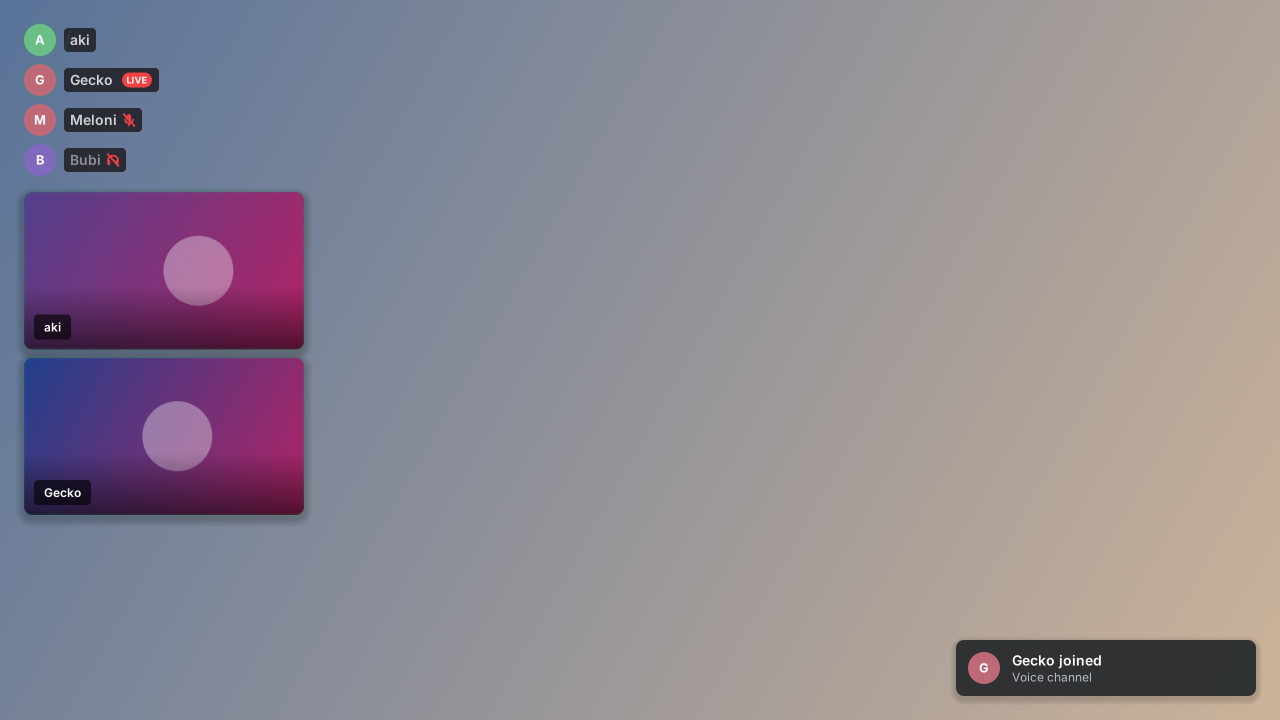
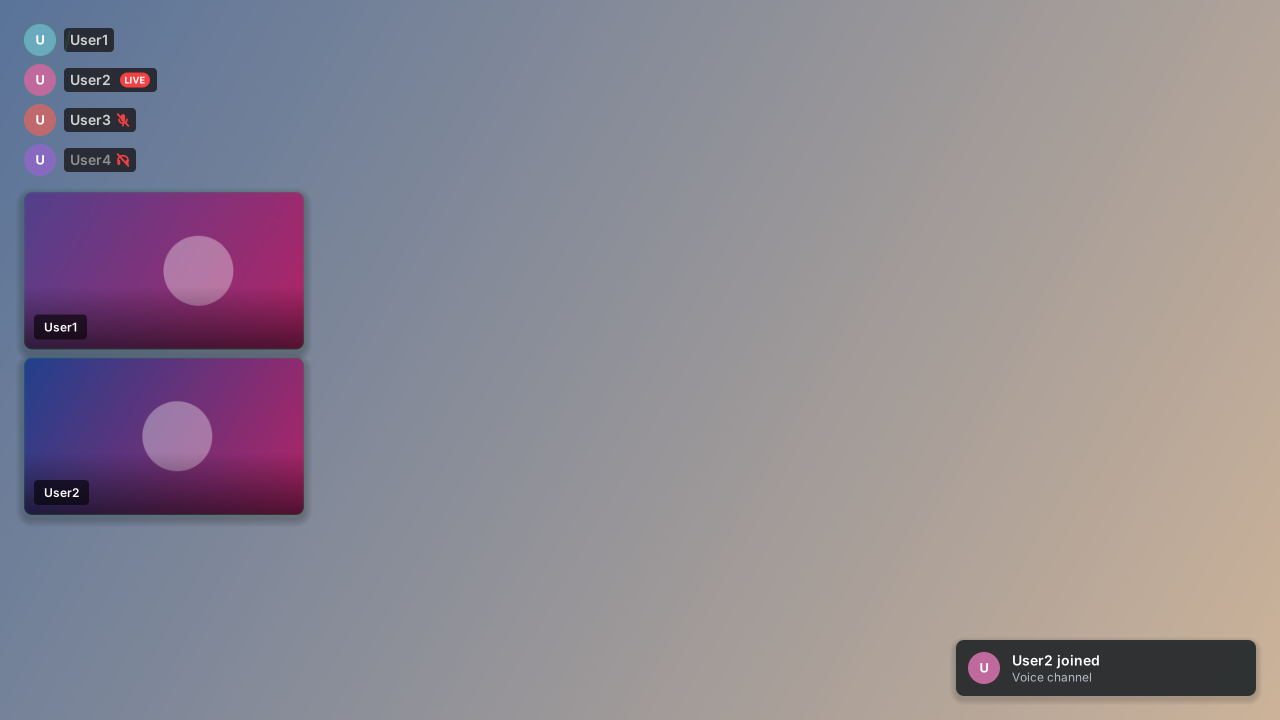
Use placeholder names (User1-User4) in the demo and preview image
Claude-Session: https://claude.ai/code/session_01JZuA9CuNcj5uavghpzBAED

diff --git a/overlay/vesktop-overlay.py b/overlay/vesktop-overlay.py
@@ -877,13 +877,13 @@ class Overlay(Gtk.Window):
     # ---- demo
 
     def start_demo(self):
-        names = ["aki", "Gecko", "Meloni", "Bubi"]
+        names = ["User1", "User2", "User3", "User4"]
         self.ui["accent"] = "#23a55a"
         self.on_message({"t": "state", "channel": {"name": "Lounge", "guild": "Chilling"},
                          "users": [{"id": str(i), "name": n, "avatar": None, "me": i == 0,
                                     "mute": i == 2, "deaf": i == 3, "video": i in (0, 1), "live": i == 1}
                                    for i, n in enumerate(names)]})
-        self.on_message({"t": "toast", "kind": "join", "text": "Gecko joined"})
+        self.on_message({"t": "toast", "kind": "join", "text": "User2 joined"})
         self._demo_t = 0.0
 
         def step():
